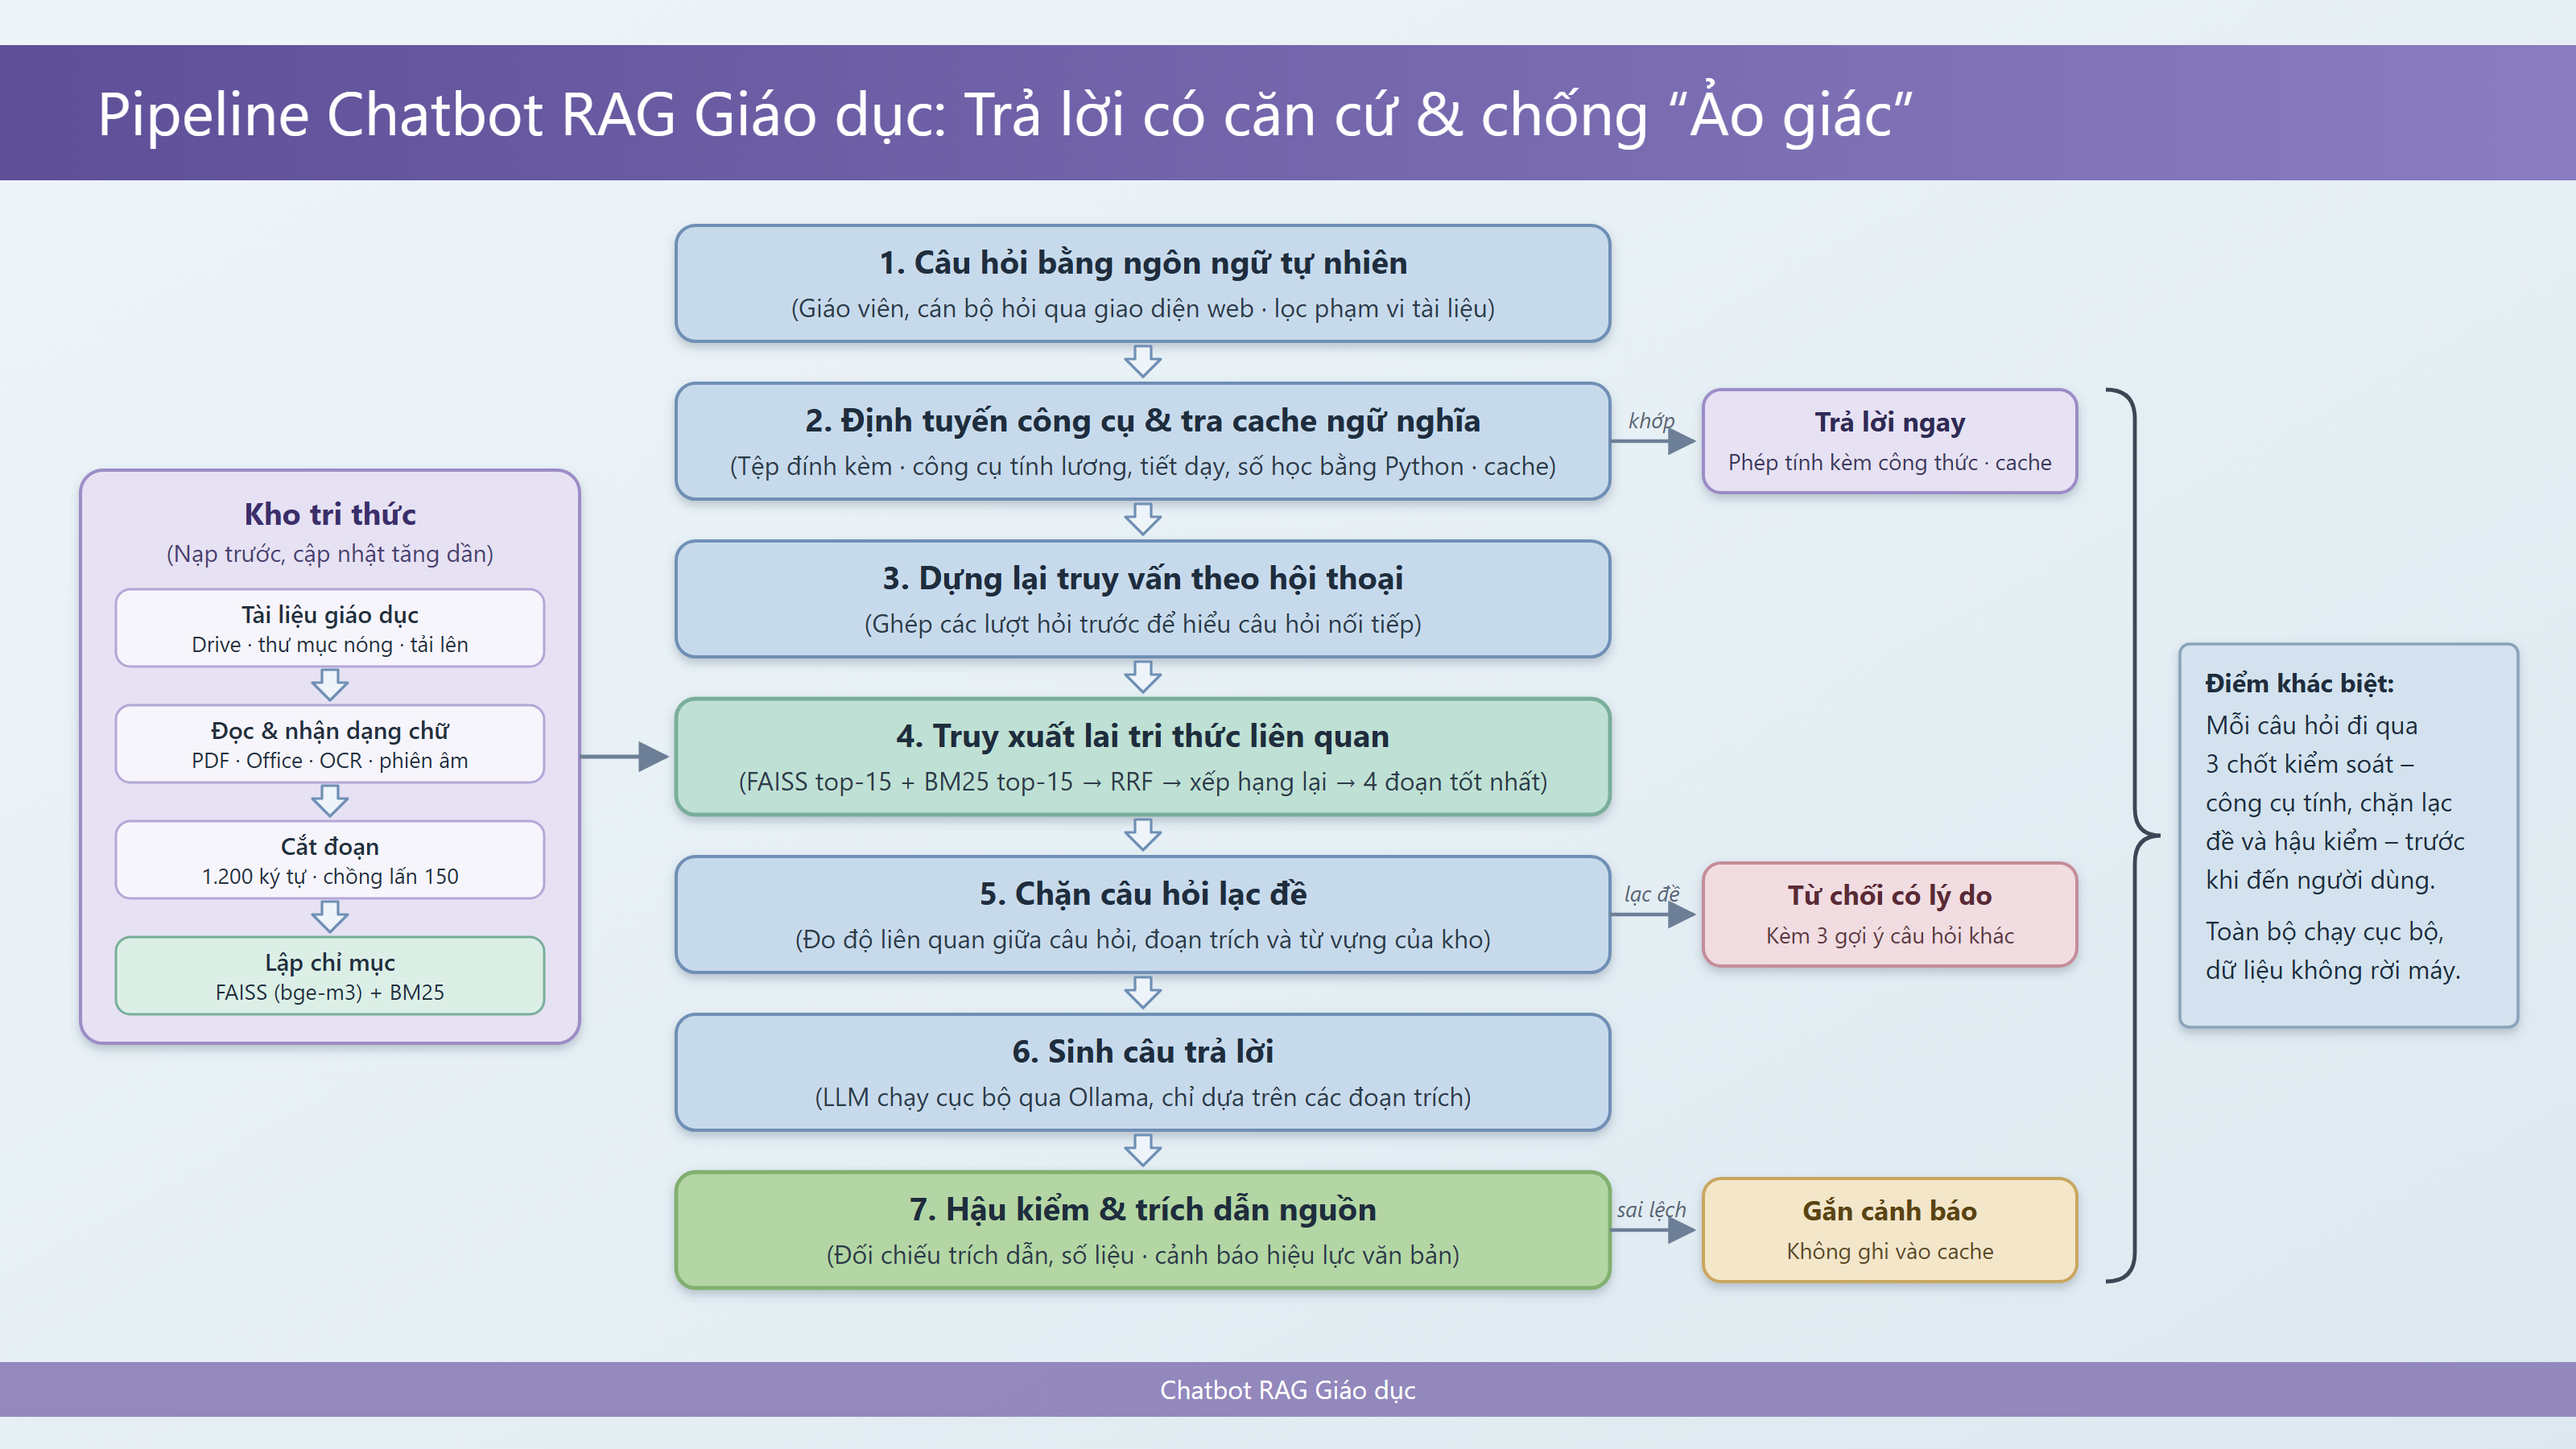
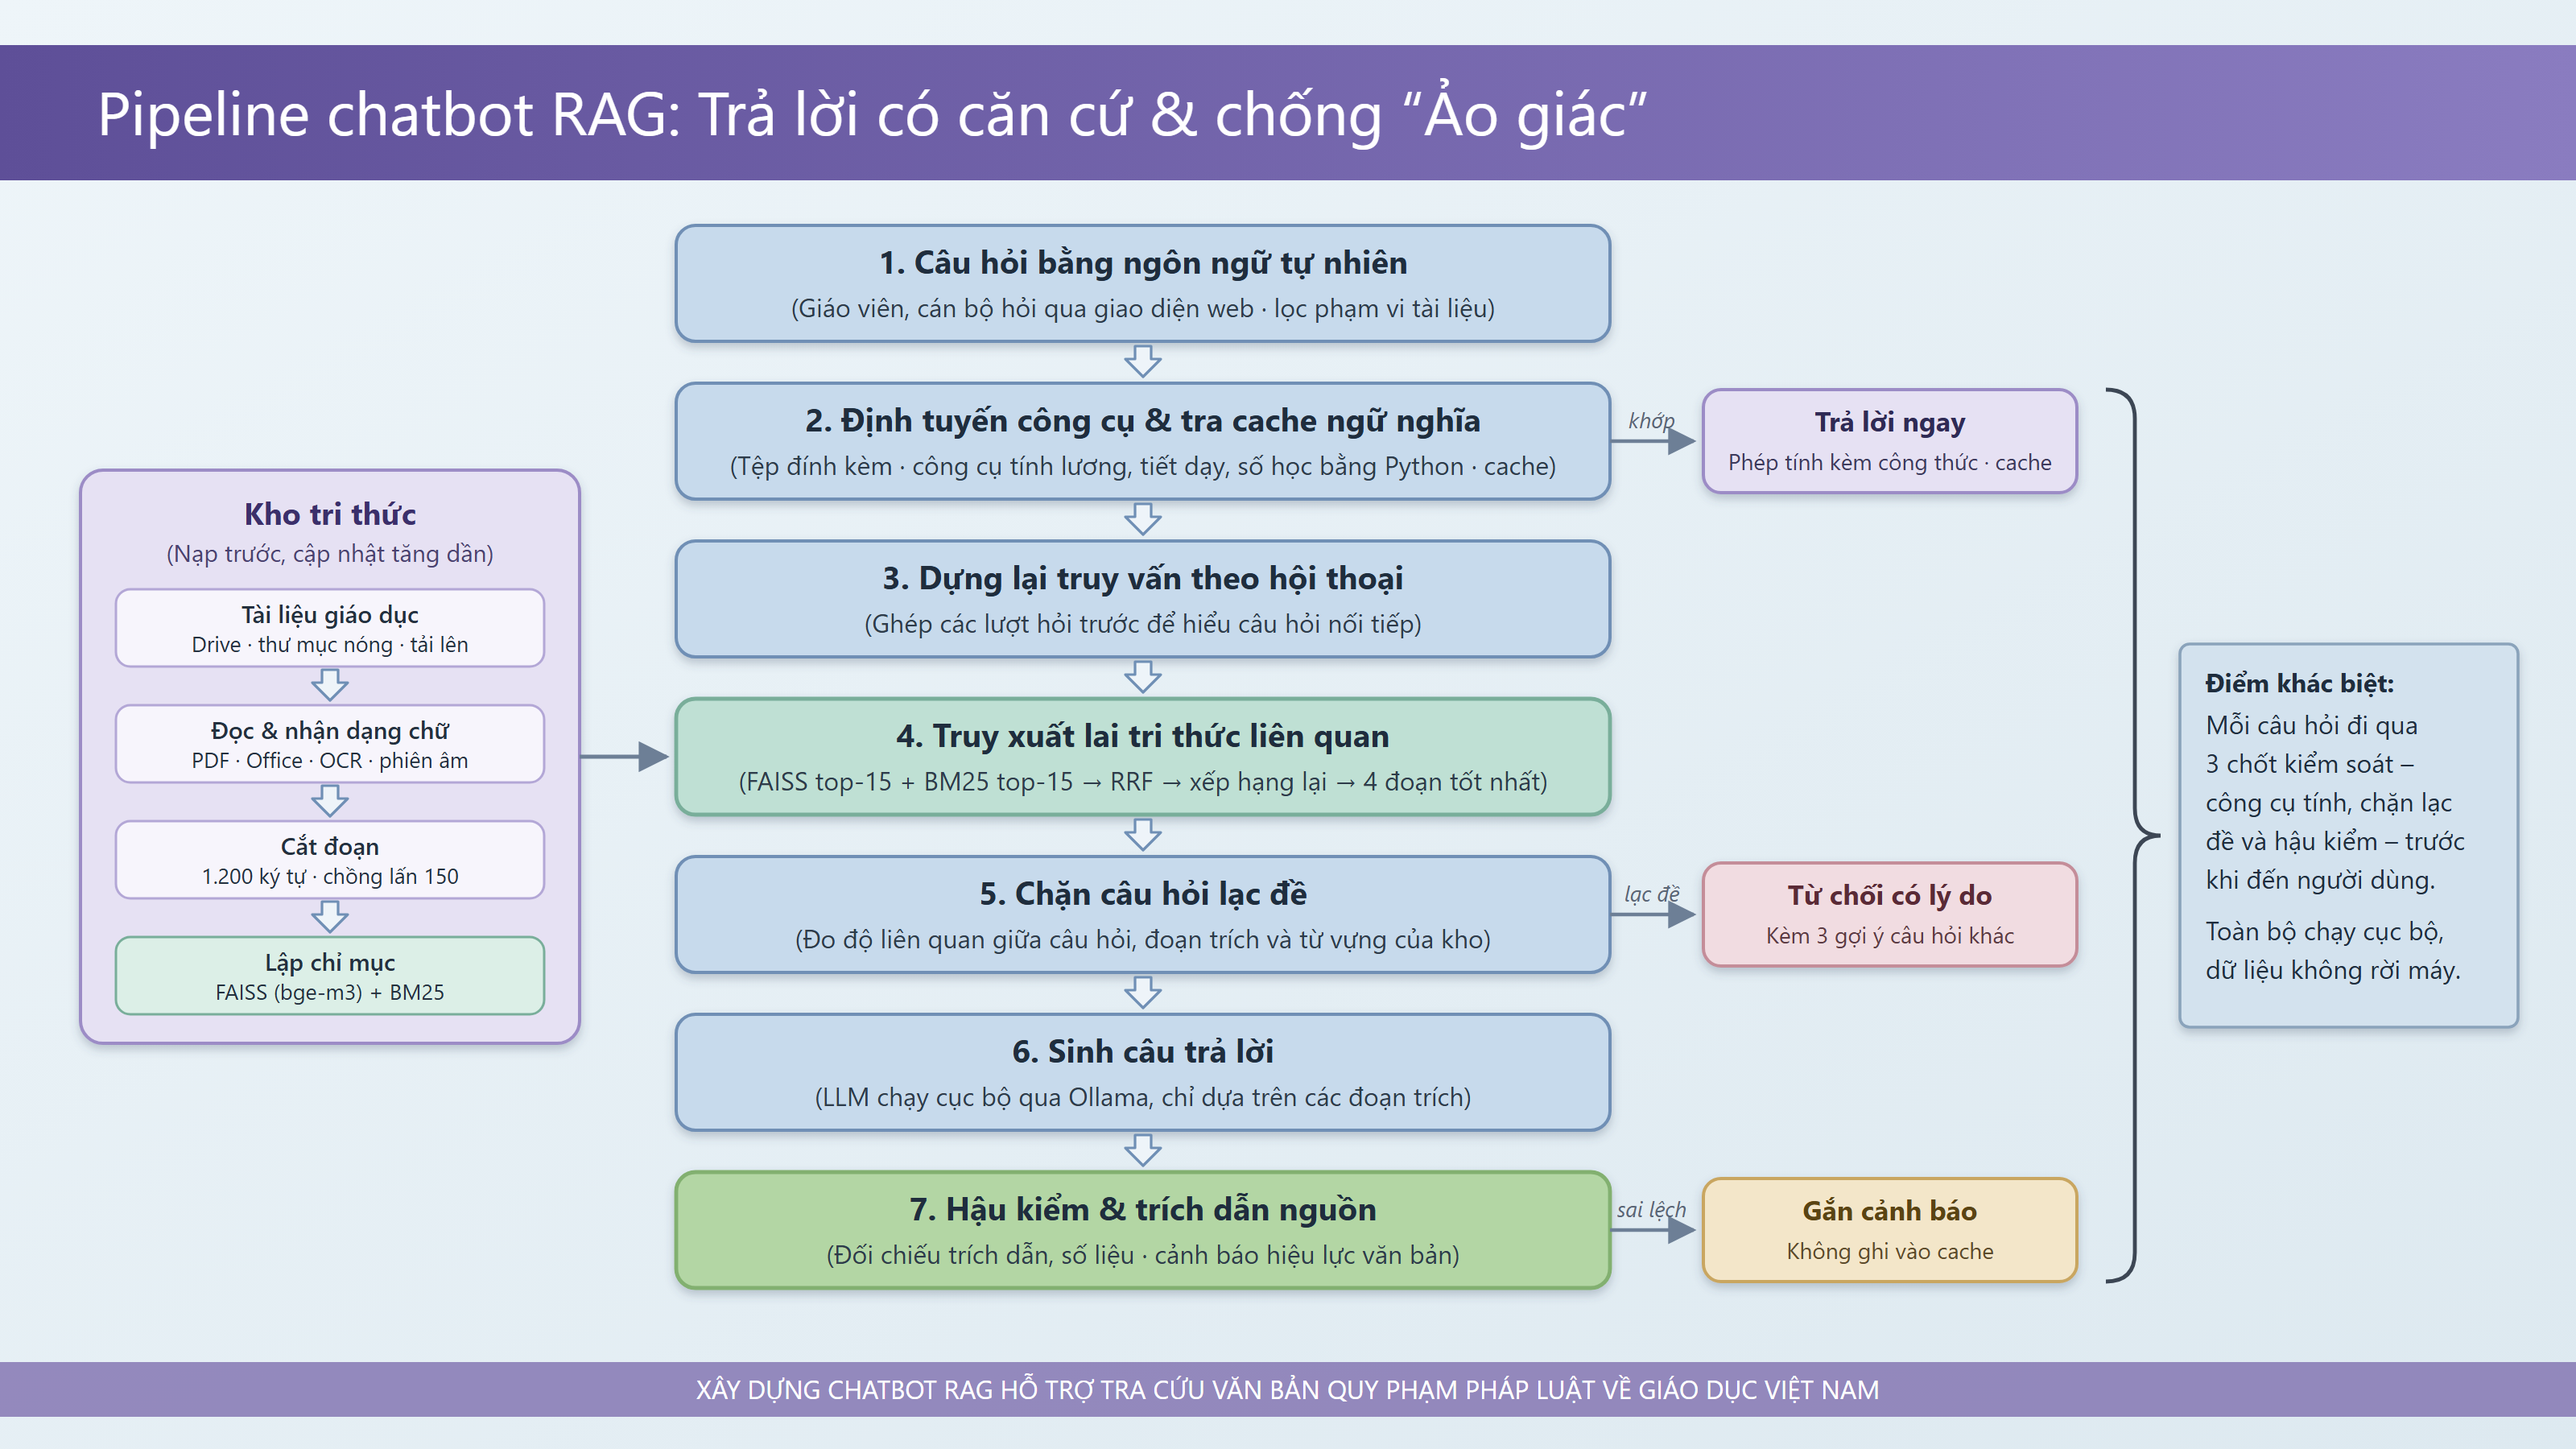
Doi ten de tai: Xay dung chatbot RAG ho tro tra cuu van ban quy pham phap luat ve giao duc Viet Nam (giao dien, tai lieu, so do, email xac minh)

Changed region(s): [[0.125, 0.0622, 0.75, 0.0933], [0.2812, 0.9333, 0.7188, 0.9644]]

diff --git a/static/index.html b/static/index.html
@@ -3,10 +3,10 @@
 <head>
   <meta charset="utf-8">
   <meta name="viewport" content="width=device-width, initial-scale=1">
-  <meta name="description" content="Chatbot RAG hỗ trợ tra cứu và hỏi đáp từ kho tri thức giáo dục.">
-  <title>Chatbot RAG Giáo dục</title>
+  <meta name="description" content="Chatbot RAG hỗ trợ tra cứu văn bản quy phạm pháp luật về giáo dục Việt Nam.">
+  <title>XÂY DỰNG CHATBOT RAG HỖ TRỢ TRA CỨU VĂN BẢN QUY PHẠM PHÁP LUẬT VỀ GIÁO DỤC VIỆT NAM</title>
   <link rel="icon" href="./favicon.svg" type="image/svg+xml">
-  <link rel="stylesheet" href="./styles.css?v=1.9.32">
+  <link rel="stylesheet" href="./styles.css?v=1.9.33">
   <script>
     /* Đặt nền đúng ngay từ lần vẽ đầu: app.js dùng defer nên nếu đợi nó thì
        người dùng chế độ tối sẽ thấy một nháy màu trắng khi mở trang. */
@@ -27,8 +27,7 @@
           <svg viewBox="0 0 40 40" fill="none"><path d="M8 8.5h16.5A7.5 7.5 0 0 1 32 16v15.5H15.5A7.5 7.5 0 0 1 8 24V8.5Z"/><path d="M14 15h12M14 20h9M14 25h7"/></svg>
         </div>
         <div>
-          <strong>Chatbot RAG Giáo dục</strong>
-          <span>Trợ lý tra cứu học tập</span>
+          <strong>XÂY DỰNG CHATBOT RAG HỖ TRỢ TRA CỨU VĂN BẢN QUY PHẠM PHÁP LUẬT VỀ GIÁO DỤC VIỆT NAM</strong>
         </div>
       </div>
 
@@ -842,12 +841,12 @@
   </dialog>
   <script src="./vai-tro.js?v=1.9.26" defer></script>
   <script src="./loc-tu-ngu.js?v=1.9.31" defer></script>
-  <script src="./app.js?v=1.9.32" defer></script>
+  <script src="./app.js?v=1.9.33" defer></script>
   <script src="./so-tay.js?v=1.9.19" defer></script>
-  <script src="./tai-khoan.js?v=1.9.32" defer></script>
+  <script src="./tai-khoan.js?v=1.9.33" defer></script>
   <script src="./quan-ly-tai-khoan.js?v=1.9.9" defer></script>
   <script src="./quan-ly-tu-ngu.js?v=1.9.31" defer></script>
-  <script src="./phan-loai-y-dinh.js?v=1.9.32" defer></script>
+  <script src="./phan-loai-y-dinh.js?v=1.9.33" defer></script>
   <script src="./dich.js?v=1.9.12" defer></script>
   <script src="./huong-dan.js?v=1.9.22" defer></script>
   <script src="./gioi-thieu.js?v=1.9.26" defer></script>

diff --git a/static/styles.css b/static/styles.css
@@ -173,10 +173,10 @@ svg { width: 22px; height: 22px; fill: none; stroke: currentColor; stroke-width:
 .app-shell { display: grid; grid-template-columns: 292px minmax(0, 1fr); height: 100dvh; }
 .sidebar { position: relative; z-index: 20; display: flex; flex-direction: column; min-width: 0; overflow-y: auto; padding: 26px 20px 18px; background: var(--sidebar); border-right: 1px solid var(--line); }
 .brand { display: flex; align-items: center; gap: 12px; padding: 0 7px; }
-.brand-mark { display: grid; place-items: center; width: 42px; height: 42px; color: white; background: var(--navy); border-radius: 13px; box-shadow: 0 8px 18px rgba(23, 49, 95, .2); }
+.brand-mark { flex: none; display: grid; place-items: center; width: 42px; height: 42px; color: white; background: var(--navy); border-radius: 13px; box-shadow: 0 8px 18px rgba(23, 49, 95, .2); }
 .brand-mark svg { width: 26px; height: 26px; stroke-width: 1.7; }
 .brand strong, .brand span { display: block; }
-.brand strong { font-size: 16px; letter-spacing: -.01em; }
+.brand strong { font-size: 12.5px; line-height: 1.35; letter-spacing: .01em; }
 .brand span { margin-top: 2px; color: var(--ink-soft); font-size: 12px; }
 
 .new-chat { display: flex; align-items: center; justify-content: center; gap: 9px; width: 100%; margin: 29px 0 9px; padding: 12px 16px; color: white; background: var(--navy); border: 0; border-radius: 12px; font-size: 14px; font-weight: 650; cursor: pointer; transition: transform .15s, background .15s; }

diff --git a/bieu_do_co_cau_kho.html b/bieu_do_co_cau_kho.html
@@ -281,7 +281,7 @@
 
 <div class="wrap">
   <header>
-    <p class="eyebrow">Kho tri thức · Chatbot RAG Giáo dục</p>
+    <p class="eyebrow">Kho tri thức · Chatbot RAG hỗ trợ tra cứu văn bản quy phạm pháp luật về giáo dục Việt Nam</p>
     <h1>713 tài liệu trong kho: định dạng nào, thể loại gì</h1>
     <p class="dek">
       Toàn bộ tệp nguồn đang nằm trong kho tại thời điểm khảo sát. Thể loại được xác định từ tên

diff --git a/quy_trinh_hoi_dap.html b/quy_trinh_hoi_dap.html
@@ -208,7 +208,7 @@
 <div class="wrap">
 
   <header>
-    <p class="eyebrow">Chatbot RAG Giáo dục</p>
+    <p class="eyebrow">Chatbot RAG hỗ trợ tra cứu văn bản quy phạm pháp luật về giáo dục Việt Nam</p>
     <h1>Đường đi của một câu hỏi</h1>
     <p class="lede">Tám bước, ba lối tắt, hai lớp kiểm tra — từ ô nhập liệu đến câu trả lời có trích dẫn.</p>
   </header>

diff --git a/gui_thu.py b/gui_thu.py
@@ -21,7 +21,7 @@ import ssl
 from email.message import EmailMessage
 from email.utils import formataddr, make_msgid
 
-TEN_NGUOI_GUI = "Chatbot RAG Giáo dục"
+TEN_NGUOI_GUI = "Chatbot RAG hỗ trợ tra cứu văn bản quy phạm pháp luật về giáo dục Việt Nam"
 GIAY_CHO_MAY_CHU = 20
 
 
@@ -79,7 +79,7 @@ def gui_ma_xac_minh(den: str, ten: str, ma: str, phut_hieu_luc: int) -> None:
     tieu_de = f"{ma} là mã xác minh tài khoản của bạn"
     van_ban = (
         f"Chào {ten},\n\n"
-        f"Mã xác minh email cho tài khoản Chatbot RAG Giáo dục của bạn là:\n\n"
+        f"Mã xác minh email cho tài khoản Chatbot RAG hỗ trợ tra cứu văn bản quy phạm pháp luật về giáo dục Việt Nam của bạn là:\n\n"
         f"    {ma}\n\n"
         f"Mã có hiệu lực trong {phut_hieu_luc} phút. Nếu bạn không yêu cầu mã này, "
         f"hãy bỏ qua thư - tài khoản của bạn vẫn an toàn.\n"
@@ -88,7 +88,7 @@ def gui_ma_xac_minh(den: str, ten: str, ma: str, phut_hieu_luc: int) -> None:
     html = f"""\
 <div style="font-family:Segoe UI,Arial,sans-serif;max-width:440px;margin:0 auto;color:#10233f">
   <p>Chào {ten_html},</p>
-  <p>Mã xác minh email cho tài khoản <b>Chatbot RAG Giáo dục</b> của bạn là:</p>
+  <p>Mã xác minh email cho tài khoản <b>Chatbot RAG hỗ trợ tra cứu văn bản quy phạm pháp luật về giáo dục Việt Nam</b> của bạn là:</p>
   <p style="font-size:30px;font-weight:700;letter-spacing:8px;margin:18px 0;padding:14px 0;
      text-align:center;background:#eef3fb;border-radius:12px">{ma}</p>
   <p style="color:#51607a;font-size:13px">Mã có hiệu lực trong {phut_hieu_luc} phút. Nếu bạn

diff --git a/api.py b/api.py
@@ -1,4 +1,4 @@
-"""FastAPI phục vụ giao diện web và API streaming cho Chatbot RAG Giáo dục."""
+"""FastAPI phục vụ giao diện web và API streaming cho Chatbot RAG hỗ trợ tra cứu văn bản quy phạm pháp luật về giáo dục Việt Nam."""
 
 from __future__ import annotations
 
@@ -156,7 +156,7 @@ async def lifespan(_: FastAPI):
 
 
 app = FastAPI(
-    title="Chatbot RAG Giáo dục",
+    title="XÂY DỰNG CHATBOT RAG HỖ TRỢ TRA CỨU VĂN BẢN QUY PHẠM PHÁP LUẬT VỀ GIÁO DỤC VIỆT NAM",
     version="1.4.0",
     docs_url="/api/docs",
     redoc_url=None,

diff --git a/tests/test_app.py b/tests/test_app.py
@@ -49,7 +49,7 @@ class ApiTests(unittest.TestCase):
     def test_homepage_is_served(self):
         response = self.client.get("/")
         self.assertEqual(response.status_code, 200)
-        self.assertIn("Chatbot RAG Giáo dục", response.text)
+        self.assertIn("XÂY DỰNG CHATBOT RAG HỖ TRỢ TRA CỨU VĂN BẢN QUY PHẠM PHÁP LUẬT VỀ GIÁO DỤC VIỆT NAM", response.text)
 
     def test_question_validation(self):
         response = self.client.post("/api/chat/stream", json={"question": " "})

diff --git a/HUONG_DAN_SU_DUNG.md b/HUONG_DAN_SU_DUNG.md
@@ -1,4 +1,4 @@
-# Hướng dẫn sử dụng Chatbot RAG Giáo dục
+# Hướng dẫn sử dụng Chatbot RAG hỗ trợ tra cứu văn bản quy phạm pháp luật về giáo dục Việt Nam
 
 *Dành cho người mới bắt đầu, không cần biết nhiều về tin học.*
 
@@ -6,7 +6,7 @@
 
 > **Giới thiệu ngắn**
 >
-> **Chatbot RAG Giáo dục** là trợ lý tra cứu tài liệu giáo dục bằng tiếng Việt. Bạn gõ câu hỏi như khi nhắn tin, trợ lý tìm trong kho hơn một nghìn văn bản và tài liệu giáo dục (luật, nghị định, thông tư, chương trình giáo dục, tài liệu chuyên môn…) rồi trả lời ngắn gọn, **kèm theo nguồn**: tên tài liệu và đúng trang chứa thông tin, để bạn tự kiểm tra lại. Trợ lý còn cảnh báo khi văn bản đã bị thay thế hoặc chỉ là bản dự thảo, và tính sẵn lương nhà giáo, định mức tiết dạy theo đúng văn bản quy định.
+> **Chatbot RAG hỗ trợ tra cứu văn bản quy phạm pháp luật về giáo dục Việt Nam** là trợ lý tra cứu tài liệu giáo dục bằng tiếng Việt. Bạn gõ câu hỏi như khi nhắn tin, trợ lý tìm trong kho hơn một nghìn văn bản và tài liệu giáo dục (luật, nghị định, thông tư, chương trình giáo dục, tài liệu chuyên môn…) rồi trả lời ngắn gọn, **kèm theo nguồn**: tên tài liệu và đúng trang chứa thông tin, để bạn tự kiểm tra lại. Trợ lý còn cảnh báo khi văn bản đã bị thay thế hoặc chỉ là bản dự thảo, và tính sẵn lương nhà giáo, định mức tiết dạy theo đúng văn bản quy định.
 >
 > Sản phẩm do học viên Khoa Công nghệ thông tin, Trường Đại học Sư phạm Thành phố Hồ Chí Minh thực hiện, dưới sự hướng dẫn của TS. Nguyễn Minh Hải.
 

diff --git a/HUONG_DAN_BAN_GIAO_UI.md b/HUONG_DAN_BAN_GIAO_UI.md
@@ -1,4 +1,4 @@
-# Chatbot RAG Giáo dục — Tài liệu bàn giao kỹ thuật
+# Chatbot RAG hỗ trợ tra cứu văn bản quy phạm pháp luật về giáo dục Việt Nam — Tài liệu bàn giao kỹ thuật
 
 > Tài liệu này mô tả phần **RAG backend** và các lần đo đạc thật (không phải giả định). Ban đầu viết cho đội làm UI; giao diện web nay đã hoàn thiện: cách chạy và các tính năng xem [README.md](README.md), API và biến môi trường xem [HUONG_DAN_CHAY_GIAO_DIEN.md](HUONG_DAN_CHAY_GIAO_DIEN.md).
 >

diff --git a/trien_khai_vps/HUONG_DAN.md b/trien_khai_vps/HUONG_DAN.md
@@ -15,7 +15,7 @@
 
 Hai ứng dụng chạy chung:
 
-- **Chatbot RAG Giáo dục** — chạy thẳng trên host: Python + FastAPI + Ollama + FAISS
+- **Chatbot RAG hỗ trợ tra cứu văn bản quy phạm pháp luật về giáo dục Việt Nam** — chạy thẳng trên host: Python + FastAPI + Ollama + FAISS
 - **Nearby** (`location-recommendation`) — 11 container Docker: PostGIS, OpenSearch,
   Neo4j, Redis, backend, frontend, gateway nginx, 3 máy chủ định tuyến OSRM
 

diff --git a/HUONG_DAN_CHAY_GIAO_DIEN.md b/HUONG_DAN_CHAY_GIAO_DIEN.md
@@ -1,4 +1,4 @@
-# Hướng dẫn chạy giao diện Chatbot RAG Giáo dục
+# Hướng dẫn chạy giao diện Chatbot RAG hỗ trợ tra cứu văn bản quy phạm pháp luật về giáo dục Việt Nam
 
 ## Chạy nhanh trên Windows
 
